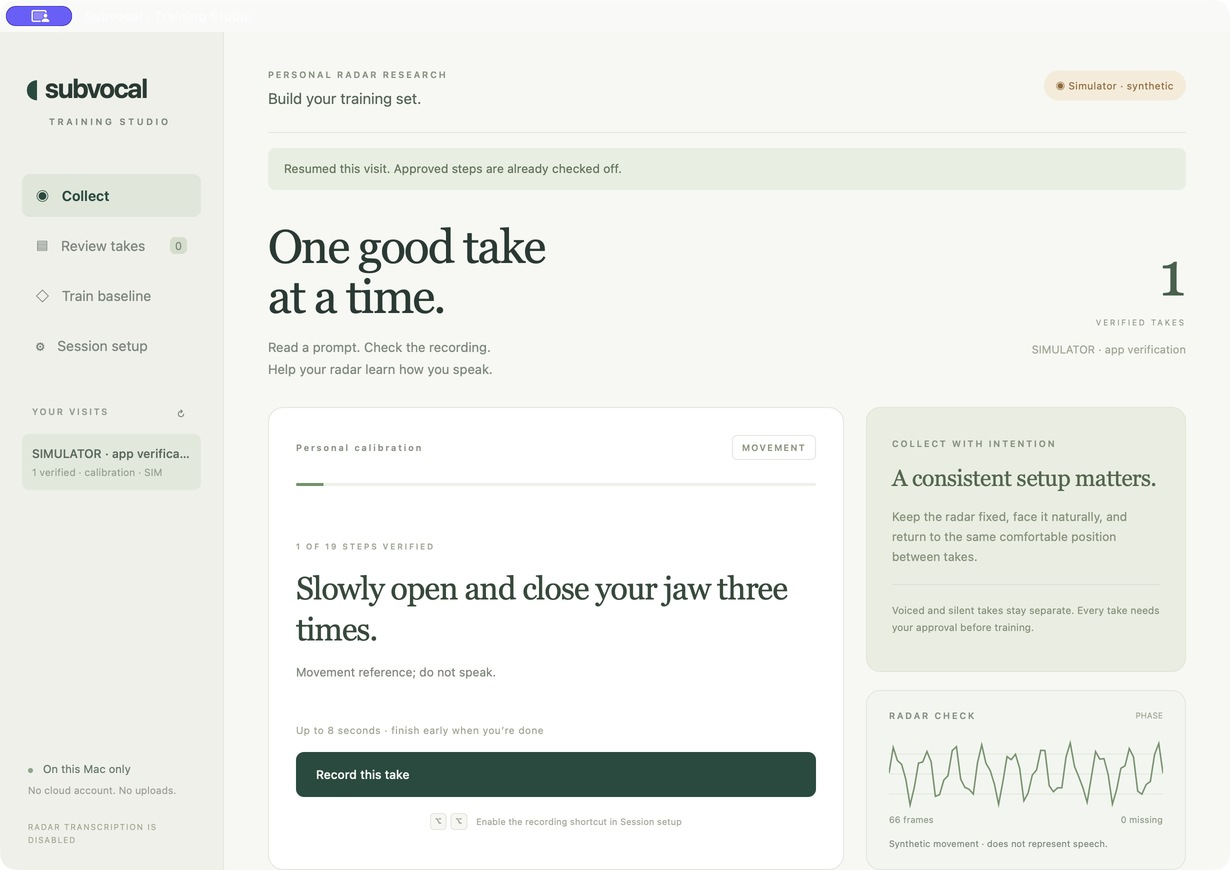
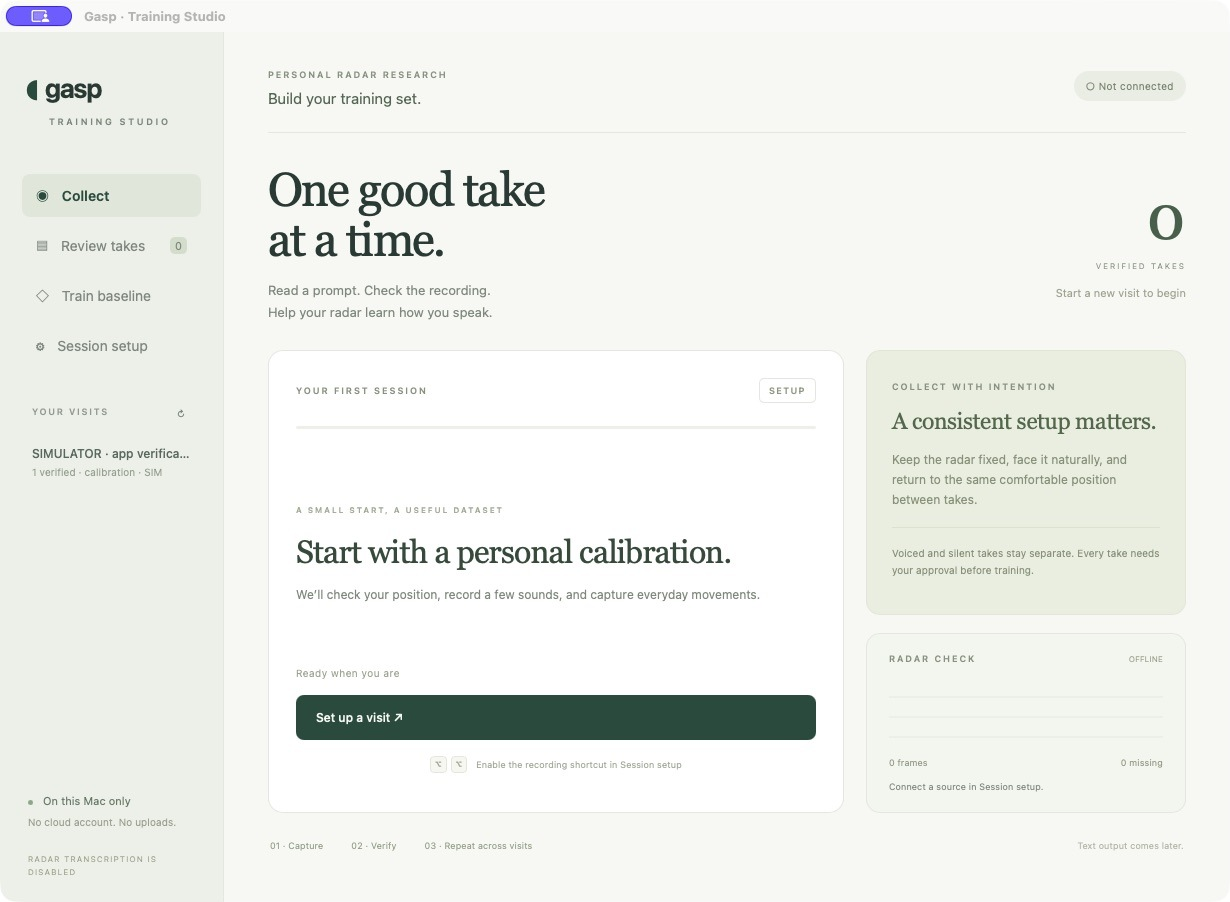
Give Gasp its own app, package, and project identity

diff --git a/macos/Sources/main.swift b/macos/Sources/main.swift
@@ -24,7 +24,7 @@ final class AudioReference {
         let input = engine.inputNode
         let format = input.outputFormat(forBus: 0)
         guard format.sampleRate > 0, format.channelCount > 0 else { throw failure("No microphone input is available.") }
-        let url = FileManager.default.temporaryDirectory.appendingPathComponent("subvocal-audio-\(UUID().uuidString).wav")
+        let url = FileManager.default.temporaryDirectory.appendingPathComponent("gasp-audio-\(UUID().uuidString).wav")
         let settings: [String: Any] = [AVFormatIDKey:kAudioFormatLinearPCM, AVSampleRateKey:format.sampleRate,
             AVNumberOfChannelsKey:format.channelCount, AVLinearPCMBitDepthKey:32,
             AVLinearPCMIsFloatKey:true, AVLinearPCMIsNonInterleaved:false]
@@ -71,7 +71,7 @@ final class AudioReference {
     }
     func discard() { stop(); if let url = location { try? FileManager.default.removeItem(at:url) }; location = nil }
 }
-func failure(_ message: String) -> NSError { NSError(domain:"DesktopSubvocal",code:1,userInfo:[NSLocalizedDescriptionKey:message]) }
+func failure(_ message: String) -> NSError { NSError(domain:"Gasp",code:1,userInfo:[NSLocalizedDescriptionKey:message]) }
 
 final class OverlayState: ObservableObject {
     @Published var title = "Ready to collect"
@@ -115,7 +115,7 @@ final class Application: NSObject, NSApplicationDelegate, WKScriptMessageHandler
     var support: URL!
 
     func applicationDidFinishLaunching(_ notification: Notification) {
-        support = FileManager.default.urls(for:.applicationSupportDirectory,in:.userDomainMask)[0].appendingPathComponent("Desktop Subvocal",isDirectory:true)
+        support = FileManager.default.urls(for:.applicationSupportDirectory,in:.userDomainMask)[0].appendingPathComponent("Gasp",isDirectory:true)
         do { try FileManager.default.createDirectory(at:support,withIntermediateDirectories:true) }
         catch { fatalAlert(error.localizedDescription); return }
         gesture.keyCode = UInt16(UserDefaults.standard.integer(forKey:"recordingKey").nonzero ?? 61)
@@ -124,22 +124,22 @@ final class Application: NSObject, NSApplicationDelegate, WKScriptMessageHandler
         do { try startWorker() } catch { fatalAlert(error.localizedDescription) }
     }
     func makeWindow() {
-        let content = WKUserContentController(); content.add(self,name:"subvocal")
+        let content = WKUserContentController(); content.add(self,name:"gasp")
         let configuration = WKWebViewConfiguration(); configuration.userContentController = content
         web = WKWebView(frame:.zero,configuration:configuration); web.navigationDelegate = self
         web.setValue(false,forKey:"drawsBackground")
         window = NSWindow(contentRect:NSRect(x:0,y:0,width:1230,height:870),styleMask:[.titled,.closable,.miniaturizable,.resizable],backing:.buffered,defer:false)
-        window.title = "Subvocal · Training Studio"; window.titlebarAppearsTransparent = true
+        window.title = "Gasp · Training Studio"; window.titlebarAppearsTransparent = true
         window.backgroundColor = NSColor(calibratedRed:0.969,green:0.973,blue:0.957,alpha:1)
         window.appearance = NSAppearance(named:.aqua)
         window.minSize = NSSize(width:860,height:650); window.contentView = web
         window.center(); window.setFrameAutosaveName("TrainingStudio"); window.makeKeyAndOrderFront(nil)
-        web.loadHTMLString("<body style='font:16px -apple-system;background:#f7f8f4;color:#204b3e;padding:80px'><h1>subvocal</h1><p>Starting your local training studio…</p></body>",baseURL:nil)
+        web.loadHTMLString("<body style='font:16px -apple-system;background:#f7f8f4;color:#204b3e;padding:80px'><h1>gasp</h1><p>Starting your local training studio…</p></body>",baseURL:nil)
         NSApp.activate(ignoringOtherApps:true)
     }
     func makeMenu() {
         statusItem = NSStatusBar.system.statusItem(withLength:NSStatusItem.variableLength)
-        statusItem.button?.image = NSImage(systemSymbolName:"waveform",accessibilityDescription:"Subvocal training")
+        statusItem.button?.image = NSImage(systemSymbolName:"waveform",accessibilityDescription:"Gasp training")
         let menu = NSMenu()
         menu.addItem(withTitle:"Open Training Studio",action:#selector(showWindow),keyEquivalent:"").target = self
         menu.addItem(withTitle:"Record / finish take",action:#selector(toggle),keyEquivalent:"").target = self
@@ -147,7 +147,7 @@ final class Application: NSObject, NSApplicationDelegate, WKScriptMessageHandler
         menu.addItem(.separator())
         menu.addItem(withTitle:"Show local recordings",action:#selector(showData),keyEquivalent:"").target = self
         menu.addItem(.separator())
-        menu.addItem(withTitle:"Quit Subvocal",action:#selector(quit),keyEquivalent:"q").target = self
+        menu.addItem(withTitle:"Quit Gasp",action:#selector(quit),keyEquivalent:"q").target = self
         statusItem.menu = menu
         let appMenu = NSMenu(); let root = NSMenuItem(); root.submenu = menu; appMenu.addItem(root)
         let editRoot = NSMenuItem(title:"Edit",action:nil,keyEquivalent:""); let edit = NSMenu(title:"Edit")
@@ -163,17 +163,17 @@ final class Application: NSObject, NSApplicationDelegate, WKScriptMessageHandler
     }
     func startWorker() throws {
         guard let resource = Bundle.main.resourceURL else { throw failure("App resources are missing.") }
-        let executable = resource.appendingPathComponent("capture/subvocal-capture")
+        let executable = resource.appendingPathComponent("capture/gasp-capture")
         guard FileManager.default.isExecutableFile(atPath:executable.path) else { throw failure("The bundled capture engine is missing. Rebuild the app.") }
         let logs = support.appendingPathComponent("Logs",isDirectory:true)
         try FileManager.default.createDirectory(at:logs,withIntermediateDirectories:true)
         let logURL = logs.appendingPathComponent("capture.log")
         if !FileManager.default.fileExists(atPath:logURL.path) { FileManager.default.createFile(atPath:logURL.path,contents:nil) }
         workerLog = try FileHandle(forWritingTo:logURL); try workerLog?.truncate(atOffset:0)
-        readyFile = FileManager.default.temporaryDirectory.appendingPathComponent("subvocal-ready-\(UUID().uuidString).json")
+        readyFile = FileManager.default.temporaryDirectory.appendingPathComponent("gasp-ready-\(UUID().uuidString).json")
         let process = Process(); process.executableURL = executable
         process.arguments = ["--data",support.appendingPathComponent("Recordings").path,"--ready-file",readyFile.path]
-        var env = ProcessInfo.processInfo.environment; env["SUBVOCAL_APP_TOKEN"] = token
+        var env = ProcessInfo.processInfo.environment; env["GASP_APP_TOKEN"] = token
         env["PYTHONNOUSERSITE"] = "1"; process.environment = env
         process.standardOutput = workerLog; process.standardError = workerLog
         process.terminationHandler = { [weak self] _ in DispatchQueue.main.async {
@@ -188,7 +188,7 @@ final class Application: NSObject, NSApplicationDelegate, WKScriptMessageHandler
         if let data = try? Data(contentsOf:readyFile),let ready = try? JSONSerialization.jsonObject(with:data) as? [String:Any],let port = ready["port"] as? Int {
             startupTimer?.invalidate(); baseURL = URL(string:"http://127.0.0.1:\(port)")!
             web.load(URLRequest(url:URL(string:"/desktop?token=\(token)",relativeTo:baseURL)!.absoluteURL))
-        } else if startupChecks > 150 { startupTimer?.invalidate(); fatalAlert("The local capture engine did not become ready. Check the capture log in Application Support/Desktop Subvocal/Logs.") }
+        } else if startupChecks > 150 { startupTimer?.invalidate(); fatalAlert("The local capture engine did not become ready. Check the capture log in Application Support/Gasp/Logs.") }
     }
     func webView(_ webView: WKWebView, decidePolicyFor navigationAction: WKNavigationAction, decisionHandler: @escaping (WKNavigationActionPolicy)->Void) {
         if let url = navigationAction.request.url, url.scheme == "about" || (url.host == "127.0.0.1" && url.port == baseURL?.port) { decisionHandler(.allow) }
@@ -205,11 +205,11 @@ final class Application: NSObject, NSApplicationDelegate, WKScriptMessageHandler
                 case "info": result = ["keyCode":Int(gesture.keyCode),"shortcutEnabled":eventTap != nil,"shortcutMessage":eventTap != nil ? "Input Monitoring is available. The shortcut works across apps." : "Enable Input Monitoring to use the shortcut across apps. On-screen capture works now."]
                 case "enableShortcut":
                     setKey(body); startMonitor(request:true)
-                    result = ["enabled":eventTap != nil,"message":eventTap != nil ? "Shortcut enabled. Double-tap to start; tap once to finish. Escape cancels." : "Allow Subvocal in System Settings → Privacy & Security → Input Monitoring, then click Enable again."]
+                    result = ["enabled":eventTap != nil,"message":eventTap != nil ? "Shortcut enabled. Double-tap to start; tap once to finish. Escape cancels." : "Allow Gasp in System Settings → Privacy & Security → Input Monitoring, then click Enable again."]
                 case "setShortcut": setKey(body)
                 case "audioPermission":
                     let allowed = await AVCaptureDevice.requestAccess(for:.audio)
-                    if !allowed { throw failure("Allow Subvocal in System Settings → Privacy & Security → Microphone.") }
+                    if !allowed { throw failure("Allow Gasp in System Settings → Privacy & Security → Microphone.") }
                 case "audioStart": try audio.start()
                 case "audioStop": audio.stop()
                 case "audioDiscard": audio.discard()
@@ -271,8 +271,8 @@ final class Application: NSObject, NSApplicationDelegate, WKScriptMessageHandler
         if gesture.modifier(code:code,down:event.flags.contains(mask),time:Double(event.timestamp)/1e9,recording:recording) { toggle() }
     }
     @objc func showWindow() { window.makeKeyAndOrderFront(nil); NSApp.activate(ignoringOtherApps:true) }
-    @objc func toggle() { web.evaluateJavaScript("window.dispatchEvent(new Event('subvocal-toggle'))",completionHandler:nil) }
-    @objc func cancel() { web.evaluateJavaScript("window.dispatchEvent(new Event('subvocal-cancel'))",completionHandler:nil) }
+    @objc func toggle() { web.evaluateJavaScript("window.dispatchEvent(new Event('gasp-toggle'))",completionHandler:nil) }
+    @objc func cancel() { web.evaluateJavaScript("window.dispatchEvent(new Event('gasp-cancel'))",completionHandler:nil) }
     @objc func showData() { NSWorkspace.shared.open(support.appendingPathComponent("Recordings")) }
     @objc func quit() { NSApp.terminate(nil) }
     func applicationShouldHandleReopen(_ sender:NSApplication,hasVisibleWindows flag:Bool)->Bool { showWindow(); return true }
@@ -286,7 +286,7 @@ final class Application: NSObject, NSApplicationDelegate, WKScriptMessageHandler
         DispatchQueue.global().async { process.waitUntilExit(); DispatchQueue.main.async { NSApp.reply(toApplicationShouldTerminate:true) } }
         return .terminateLater
     }
-    func fatalAlert(_ text:String) { let alert = NSAlert(); alert.messageText = "Subvocal needs attention"; alert.informativeText = text; alert.runModal() }
+    func fatalAlert(_ text:String) { let alert = NSAlert(); alert.messageText = "Gasp needs attention"; alert.informativeText = text; alert.runModal() }
 }
 extension Int { var nonzero: Int? { self == 0 ? nil : self } }
 let application = NSApplication.shared

diff --git a/gasp/static/training.js b/gasp/static/training.js
@@ -26,7 +26,7 @@ let offsetMs = 0,
   browserAudio = null,
   browserBlob = null,
   browserAudioStart = 0;
-const native = !!window.webkit?.messageHandlers?.subvocal,
+const native = !!window.webkit?.messageHandlers?.gasp,
   replies = new Map();
 window.nativeReply = (id, result, error) => {
   const p = replies.get(id);
@@ -47,7 +47,7 @@ function bridge(action, data = {}) {
       reject(new Error("The Mac app did not respond."));
     }, 60000);
     replies.set(id, { resolve, reject, timer });
-    window.webkit.messageHandlers.subvocal.postMessage({ id, action, ...data });
+    window.webkit.messageHandlers.gasp.postMessage({ id, action, ...data });
   });
 }
 async function api(path, method = "GET", body) {
@@ -349,7 +349,7 @@ function deckChanged() {
 }
 $("deck").onchange = deckChanged;
 $("subject").onchange = () => {
-  localStorage.setItem("subvocal.subject", $("subject").value);
+  localStorage.setItem("gasp.subject", $("subject").value);
   refreshVisits().catch(() => {});
 };
 $("visitForm").onsubmit = async (e) => {
@@ -588,10 +588,10 @@ act("recordButton", toggleRecording);
 act("cancelButton", async () => {
   if (activeRecord) await api("record/" + activeRecord.id + "/cancel", "POST");
 });
-window.addEventListener("subvocal-toggle", () =>
+window.addEventListener("gasp-toggle", () =>
   toggleRecording().catch((e) => notice(e.message, true)),
 );
-window.addEventListener("subvocal-cancel", () => {
+window.addEventListener("gasp-cancel", () => {
   if (activeRecord)
     api("record/" + activeRecord.id + "/cancel", "POST").catch((e) =>
       notice(e.message, true),
@@ -787,7 +787,7 @@ async function init() {
     .map((d) => `<option value="${d.id}">${escapeHTML(d.name)}</option>`)
     .join("");
   deckChanged();
-  $("subject").value = localStorage.getItem("subvocal.subject") || "Boyd";
+  $("subject").value = localStorage.getItem("gasp.subject") || "Boyd";
   $("sessionName").value =
     "Visit · " +
     new Date().toLocaleString([], {

diff --git a/gasp/static/index.html b/gasp/static/index.html
@@ -1,8 +1,8 @@
 <!doctype html>
 <html lang="en"><head><meta charset="utf-8"><meta name="viewport" content="width=device-width,initial-scale=1">
-<title>Desktop Subvocal · Radar workbench</title><link rel="stylesheet" href="/static/style.css"><script src="/static/app.js" defer></script></head>
+<title>Gasp · Radar workbench</title><link rel="stylesheet" href="/static/style.css"><script src="/static/app.js" defer></script></head>
 <body>
-<header><a class="brand" href="/" aria-label="Desktop Subvocal home"><span class="brand-icon">◉</span><span>Desktop Subvocal<small>PERSONAL RADAR RESEARCH</small></span></a><div class="header-right"><span class="local-tag">● LOCAL ONLY</span><span id="modeBadge" class="badge">Disconnected</span></div></header>
+<header><a class="brand" href="/" aria-label="Gasp home"><span class="brand-icon">◉</span><span>Gasp<small>PERSONAL RADAR RESEARCH</small></span></a><div class="header-right"><span class="local-tag">● LOCAL ONLY</span><span id="modeBadge" class="badge">Disconnected</span></div></header>
 <div class="app"><aside>
 <div class="eyebrow">WORKBENCH / 01</div><h1>Give silent<br>speech a signal.</h1><p class="intro">Connect your TI radar, build a dataset, and test a personal phrase recognizer.</p>
 <nav aria-label="Workflow"><button class="nav active" data-page="capture">01 <span>Connect & capture</span></button><button class="nav" data-page="review">02 <span>Review dataset</span></button><button class="nav" data-page="train">03 <span>Train & evaluate</span></button></nav>

diff --git a/gasp/static/training.html b/gasp/static/training.html
@@ -3,13 +3,13 @@
   <head>
     <meta charset="utf-8" />
     <meta name="viewport" content="width=device-width, initial-scale=1" />
-    <title>Subvocal · Training Studio</title>
+    <title>Gasp · Training Studio</title>
     <link rel="stylesheet" href="/static/training.css" />
   </head>
   <body>
     <aside>
       <div class="brand">
-        <span class="brand-mark">◖</span> subvocal<span class="edition"
+        <span class="brand-mark">◖</span> gasp<span class="edition"
           >TRAINING STUDIO</span
         >
       </div>
@@ -392,7 +392,7 @@
         </div>
       </section>
       <footer>
-        DESKTOP SUBVOCAL
+        DESKTOP GASP
         <span>Training-first preview · Hardware validation pending</span>
       </footer>
     </main>

diff --git a/gasp/server.py b/gasp/server.py
@@ -103,7 +103,7 @@ class PredictTrialInput(BaseModel):
 
 
 def create_app(data_root=None, research_enabled=False, app_token=None):
-    store = Store(data_root or os.environ.get("SUBVOCAL_DATA", "data"))
+    store = Store(data_root or os.environ.get("GASP_DATA", "data"))
     engine = Engine(store)
     pool = ThreadPoolExecutor(max_workers=1, thread_name_prefix="baseline-training")
 
@@ -113,7 +113,7 @@ def create_app(data_root=None, research_enabled=False, app_token=None):
         engine.close()
         pool.shutdown(wait=True)
 
-    app = FastAPI(title="Desktop Subvocal", lifespan=lifespan)
+    app = FastAPI(title="Gasp", lifespan=lifespan)
     app.state.store, app.state.engine = store, engine
     app.state.research_enabled = research_enabled
 
@@ -126,9 +126,9 @@ def create_app(data_root=None, research_enabled=False, app_token=None):
         if origin and origin not in {f"http://{request.headers.get('host')}", "http://testserver"}:
             return JSONResponse({"detail": "Cross-origin access rejected"}, status_code=403)
         if app_token and request.url.path != "/desktop":
-            supplied = request.cookies.get("subvocal_app", "") or request.headers.get("authorization", "").removeprefix("Bearer ")
+            supplied = request.cookies.get("gasp_app", "") or request.headers.get("authorization", "").removeprefix("Bearer ")
             if not hmac.compare_digest(supplied, app_token):
-                return JSONResponse({"detail": "Open the installed Subvocal app"}, status_code=403)
+                return JSONResponse({"detail": "Open the installed Gasp app"}, status_code=403)
         response = await call_next(request)
         response.headers["X-Content-Type-Options"] = "nosniff"
         response.headers["Cache-Control"] = "no-store"
@@ -156,7 +156,7 @@ def create_app(data_root=None, research_enabled=False, app_token=None):
         if not app_token or not hmac.compare_digest(token, app_token):
             raise HTTPException(403, "Invalid app session")
         response = RedirectResponse("/training", status_code=303)
-        response.set_cookie("subvocal_app", app_token, httponly=True, samesite="strict")
+        response.set_cookie("gasp_app", app_token, httponly=True, samesite="strict")
         return response
 
     @app.get("/api/decks")
@@ -167,7 +167,7 @@ def create_app(data_root=None, research_enabled=False, app_token=None):
 
     @app.get("/api/health")
     def health():
-        return {"ok": True, "version": "0.2.0", "data_root": str(store.root),
+        return {"ok": True, "version": "0.2.1", "data_root": str(store.root),
                 "hardware_verified": False, "transcription_enabled": False, "research_predictions_enabled": research_enabled, "server_monotonic_ns": time.monotonic_ns()}
 
     @app.get("/api/clock")

diff --git a/tests/test_collection.py b/tests/test_collection.py
@@ -2,11 +2,11 @@ import time
 import numpy as np
 import pytest
 from fastapi.testclient import TestClient
-from subvocal.collection import make_plan
-from subvocal.server import create_app
-from subvocal.cli import seed_demo
-from subvocal.storage import Store
-from subvocal.training import train
+from gasp.collection import make_plan
+from gasp.server import create_app
+from gasp.cli import seed_demo
+from gasp.storage import Store
+from gasp.training import train
 
 
 def wait_for(client, rid):
@@ -88,7 +88,7 @@ def test_articulation_and_reserved_visit_guards(tmp_path):
         train(store,ids,[ids[-1]])
     # Filtering a mixed visit removes voiced samples rather than using them as silent labels.
     store.add_trial_fields(ids[0],t['id'],{'articulation':'silent'})
-    s = store.session(ids[0]); from subvocal.storage import atomic_json
+    s = store.session(ids[0]); from gasp.storage import atomic_json
     s['collection'] = {'visit_role':'test'}; atomic_json(store.session_dir(s['id'])/'session.json',s)
     with pytest.raises(ValueError,match='cannot be used for fitting'):
         train(store,ids,[ids[-1]],articulation='silent')
@@ -108,7 +108,7 @@ def test_installed_app_requires_launch_token(tmp_path):
 
 
 def test_reviewed_schema_training_filters_modes_and_preserves_trim(tmp_path):
-    from subvocal.training import reviewed_signal, predict_trial
+    from gasp.training import reviewed_signal, predict_trial
     store = Store(tmp_path); ids = seed_demo(store,sessions=2,repetitions=2)
     for sid in ids:
         originals = store.trials(sid)

diff --git a/tests/smoke_bundle.py b/tests/smoke_bundle.py
@@ -1,6 +1,6 @@
 """Exercise the frozen capture worker without the source checkout or a venv.
 
-Usage: python tests/smoke_bundle.py dist/Subvocal.app
+Usage: python tests/smoke_bundle.py dist/Gasp.app
 All artifacts live in a temporary directory and use the labelled simulator.
 """
 import json
@@ -17,12 +17,12 @@ import uuid
 
 def main():
     app = Path(sys.argv[1]).resolve()
-    with tempfile.TemporaryDirectory(prefix='subvocal-bundle-smoke-') as folder:
+    with tempfile.TemporaryDirectory(prefix='gasp-bundle-smoke-') as folder:
         root = Path(folder)
         token = uuid.uuid4().hex + uuid.uuid4().hex
-        env = dict(os.environ, SUBVOCAL_APP_TOKEN=token, PYTHONNOUSERSITE='1')
+        env = dict(os.environ, GASP_APP_TOKEN=token, PYTHONNOUSERSITE='1')
         with (root/'worker.log').open('w+') as log:
-            process = subprocess.Popen([str(app/'Contents/Resources/capture/subvocal-capture'),
+            process = subprocess.Popen([str(app/'Contents/Resources/capture/gasp-capture'),
                 '--data', str(root/'data'), '--ready-file', str(root/'ready.json')],
                 cwd=root, env=env, stdout=log, stderr=log)
             try:

diff --git a/gasp/cli.py b/gasp/cli.py
@@ -33,7 +33,7 @@ def seed_demo(store, sessions=3, repetitions=4):
 
 
 def main():
-    parser = argparse.ArgumentParser(description="Desktop Subvocal · local radar research")
+    parser = argparse.ArgumentParser(description="Gasp · local radar research")
     parser.add_argument("--data", default="data", help="Local dataset directory")
     sub = parser.add_subparsers(dest="command", required=True)
     serve = sub.add_parser("serve", help="Open local recording and training UI")
@@ -70,7 +70,7 @@ def main():
         if args.command == "serve":
             import uvicorn
             from .server import create_app
-            print(f"Desktop Subvocal: http://127.0.0.1:{args.port}")
+            print(f"Gasp: http://127.0.0.1:{args.port}")
             uvicorn.run(create_app(args.data, research_enabled=args.research), host="127.0.0.1", port=args.port, log_level="info", access_log=False)
             return
         if args.command == "doctor":

diff --git a/macos/backend.py b/macos/backend.py
@@ -5,7 +5,7 @@ import os
 from pathlib import Path
 import socket
 import uvicorn
-from subvocal.server import create_app
+from gasp.server import create_app
 
 
 def main():
@@ -13,7 +13,7 @@ def main():
     parser.add_argument('--data', required=True)
     parser.add_argument('--ready-file', required=True)
     args = parser.parse_args()
-    token = os.environ.get('SUBVOCAL_APP_TOKEN')
+    token = os.environ.get('GASP_APP_TOKEN')
     if not token or len(token) < 32:
         raise SystemExit('An app session token is required')
     app = create_app(args.data, app_token=token, research_enabled=False)
